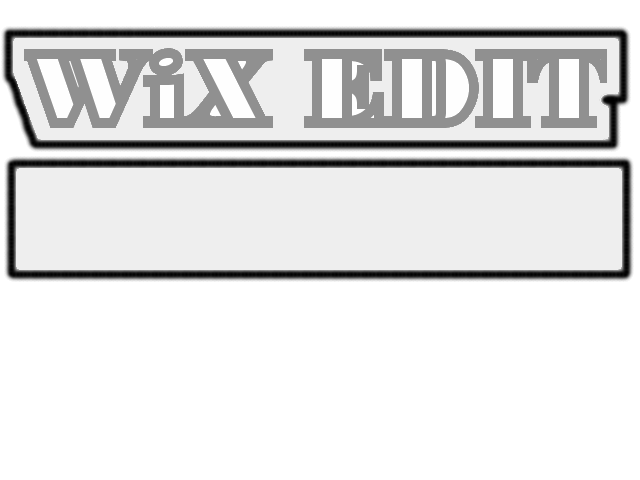
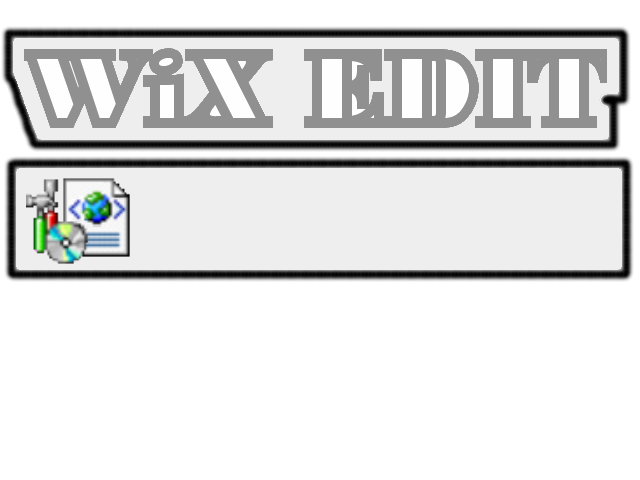
Updated about screen.

Changed region(s): [[0.0312, 0.3438, 0.2188, 0.5625]]

diff --git a/wixedit/src/About/AboutForm.cs b/wixedit/src/About/AboutForm.cs
@@ -76,7 +76,7 @@ namespace WixEdit.About {
 
             versionLabel = new Label();
             versionLabel.Text = String.Format(versionFormatString, Assembly.GetExecutingAssembly().GetName().Version.ToString());
-            versionLabel.Left = 10;
+            versionLabel.Left = 70;
             versionLabel.Top = 86;
             versionLabel.Width = 300;
             versionLabel.Height = labelHeight;
@@ -87,7 +87,7 @@ namespace WixEdit.About {
 
             copyrightLabel = new Label();
             copyrightLabel.Text = copyright;
-            copyrightLabel.Left = 10;
+            copyrightLabel.Left = 70;
             copyrightLabel.Top = versionLabel.Top+versionLabel.Height;
             copyrightLabel.Width = 300;
             copyrightLabel.Height = labelHeight;
@@ -98,7 +98,7 @@ namespace WixEdit.About {
 
             urlLabel = new LinkLabel();
             urlLabel.Text = url;
-            urlLabel.Left = 10;
+            urlLabel.Left = 70;
             urlLabel.Top = copyrightLabel.Top+copyrightLabel.Height;
             urlLabel.Width = 160;
             urlLabel.Height = labelHeight;
